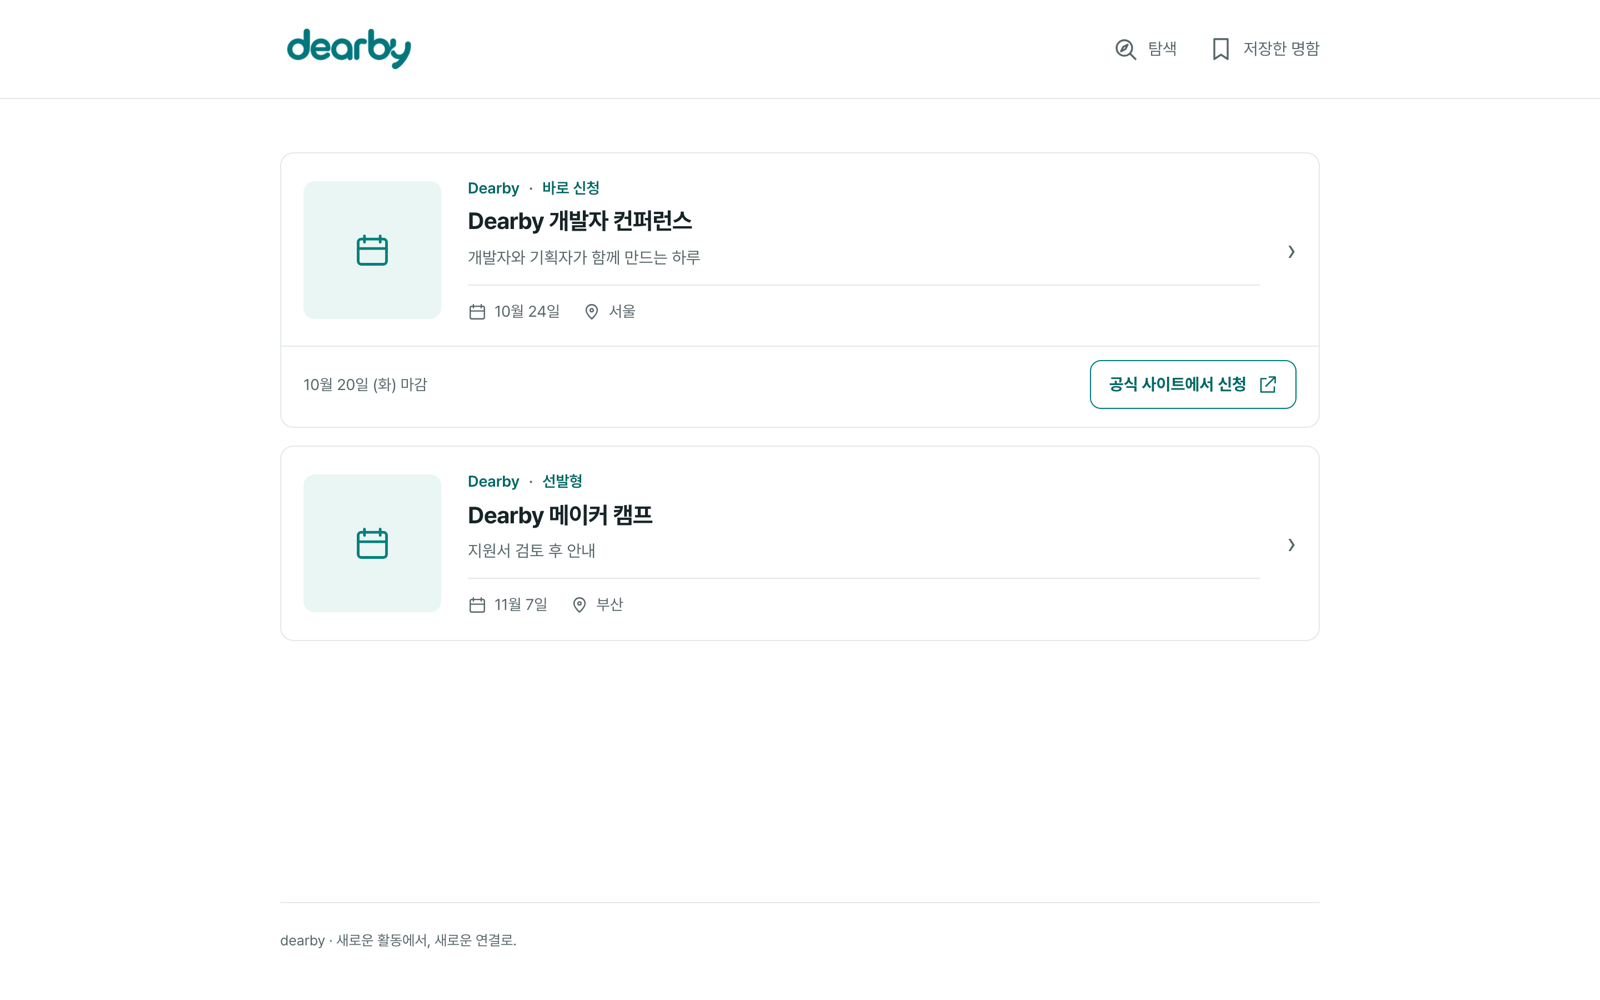
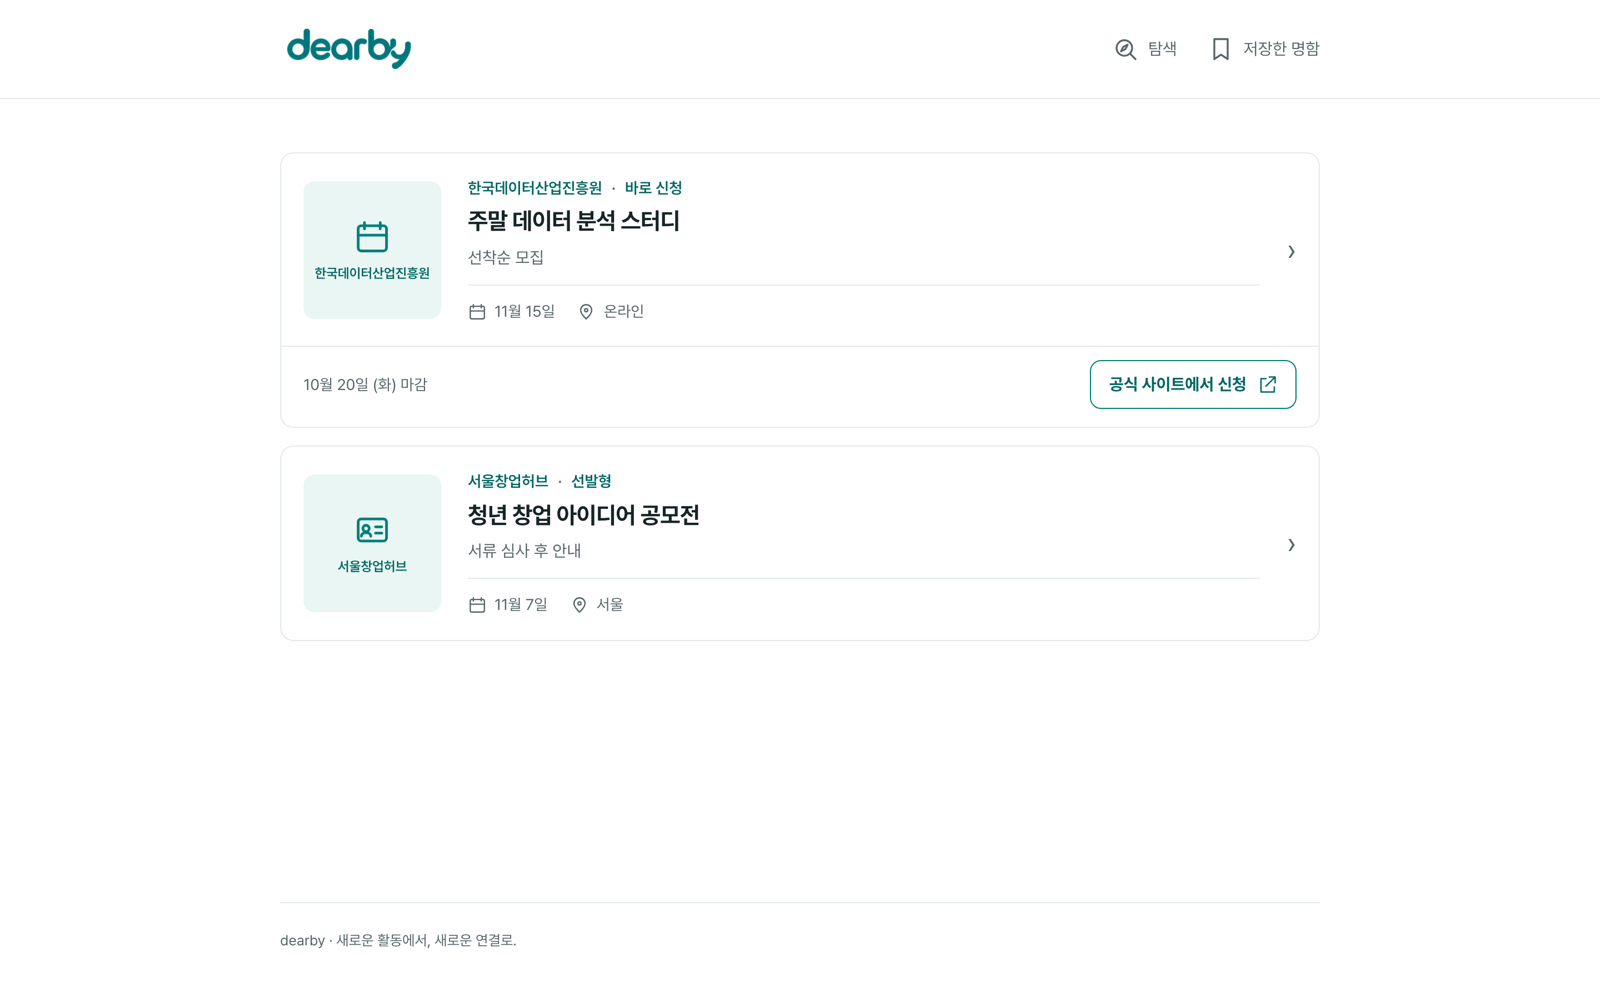
feat(ui): make activity card artwork optional with a type and organization tile
The real catalog has no photos, so the card takes an optional artwork and
otherwise shows a mint tile with a type icon and the organization name. The
artwork and tile are hidden from assistive tech because the card text carries
the same information.

diff --git a/apps/ios/Sources/widgets/catalog/ui/ActivityCard.swift b/apps/ios/Sources/widgets/catalog/ui/ActivityCard.swift
@@ -2,9 +2,13 @@ import SwiftUI
 
 /// 발견 목록의 활동 카드. 본문을 누르면 `open`(상세 이동)을 부른다.
 /// `applyURL`을 주면 카드 아래에 마감일 한 줄과 공식 신청 바로가기를 붙인다. 보일지 여부는 화면이 카탈로그 값으로 정한다.
+/// 사진(`artwork`)이 없으면 유형 아이콘과 조직 이름을 담은 타일을 보인다. 사진·타일은 카드 글자와 같은 정보라 접근성에서 숨긴다.
 struct ActivityCard: View {
     let activityID: String
     let title: String
+    let organization: String
+    var isSelection = false
+    var artwork: Image?
     let summary: String
     let status: String
     let dateAndPlace: String
@@ -15,8 +19,8 @@ struct ActivityCard: View {
         VStack(spacing: 0) {
             Button(action: open) {
                 HStack(alignment: .top, spacing: 12) {
-                    ActivityArtwork(activityID: activityID).frame(width: 104, height: 112).clipped()
-                        .clipShape(RoundedRectangle(cornerRadius: 9))
+                    thumbnail.frame(width: 104, height: 112).clipped()
+                        .clipShape(RoundedRectangle(cornerRadius: 9)).accessibilityHidden(true)
                     VStack(alignment: .leading, spacing: 7) {
                         Text(title).font(.dearby(.headline)).foregroundStyle(DearbyStyle.ink)
                         Text(summary).font(.dearby(.caption)).lineLimit(2)
@@ -43,6 +47,18 @@ struct ActivityCard: View {
         .background(.white, in: RoundedRectangle(cornerRadius: 12))
         .overlay(RoundedRectangle(cornerRadius: 12).stroke(DearbyStyle.line))
     }
+    @ViewBuilder private var thumbnail: some View {
+        if let artwork {
+            artwork.resizable().scaledToFill()
+        } else {
+            VStack(spacing: 8) {
+                Image(systemName: isSelection ? "person.crop.rectangle.stack" : "calendar")
+                    .font(.dearby(.title2)).foregroundStyle(DearbyStyle.teal)
+                Text(organization).font(.dearby(.caption2).weight(.semibold)).foregroundStyle(DearbyStyle.teal)
+                    .multilineTextAlignment(.center).lineLimit(2).minimumScaleFactor(0.8).padding(.horizontal, 8)
+            }.frame(maxWidth: .infinity, maxHeight: .infinity).background(DearbyStyle.mint)
+        }
+    }
     private var deadline: String {
         guard let recruitmentEnd else { return "마감일 미확인" }
         let formatter = DateFormatter()
@@ -58,11 +74,15 @@ struct ActivityCard: View {
 struct ActivityCardSample: View {
     var body: some View {
         VStack(spacing: 12) {
-            ActivityCard(activityID: "conference", title: "Dearby 개발자 컨퍼런스", summary: "개발자와 기획자가 함께 만드는 하루",
+            ActivityCard(activityID: "conference", title: "Dearby 개발자 컨퍼런스", organization: "Dearby", artwork: Image("ConferencePhoto"),
+                         summary: "개발자와 기획자가 함께 만드는 하루",
                          status: "모집 중 · 바로 신청", dateAndPlace: "10월 24일 · 서울", applyURL: URL(string: "https://example.invalid/apply"),
                          recruitmentEnd: ISO8601DateFormatter().date(from: "2026-10-20T14:59:00Z")) {}
-            ActivityCard(activityID: "camp", title: "Dearby 메이커 캠프", summary: "선발형 · 지원서 검토 후 안내",
-                         status: "모집 중 · 선발형", dateAndPlace: "11월 7일 · 부산") {}
+            ActivityCard(activityID: "real-1", title: "청년 창업 아이디어 공모전", organization: "서울창업허브", isSelection: true,
+                         summary: "선발형 · 서류 심사 후 안내", status: "모집 중 · 선발형", dateAndPlace: "11월 7일 · 서울") {}
+            ActivityCard(activityID: "real-2", title: "주말 데이터 분석 스터디", organization: "한국데이터산업진흥원",
+                         summary: "바로 신청 · 선착순", status: "모집 중 · 바로 신청", dateAndPlace: "11월 15일 · 온라인",
+                         applyURL: URL(string: "https://example.invalid/apply")) {}
         }.padding(20).background(.white)
     }
 }

diff --git a/apps/android/app/src/main/java/com/dearby/nativeapp/widgets/activity/activityCard/ActivityCard.kt b/apps/android/app/src/main/java/com/dearby/nativeapp/widgets/activity/activityCard/ActivityCard.kt
@@ -2,11 +2,13 @@ package com.dearby.nativeapp.widgets.activity.activityCard
 
 import androidx.compose.foundation.BorderStroke
 import androidx.compose.foundation.Image
+import androidx.compose.foundation.background
 import androidx.compose.foundation.clickable
 import androidx.compose.foundation.layout.*
 import androidx.compose.foundation.shape.RoundedCornerShape
 import androidx.compose.material.icons.Icons
 import androidx.compose.material.icons.automirrored.outlined.OpenInNew
+import androidx.compose.material.icons.outlined.Badge
 import androidx.compose.material.icons.outlined.CalendarToday
 import androidx.compose.material.icons.outlined.LocationOn
 import androidx.compose.material3.*
@@ -19,6 +21,7 @@ import androidx.compose.ui.graphics.painter.Painter
 import androidx.compose.ui.layout.ContentScale
 import androidx.compose.ui.semantics.*
 import androidx.compose.ui.text.font.FontWeight
+import androidx.compose.ui.text.style.TextAlign
 import androidx.compose.ui.text.style.TextOverflow
 import androidx.compose.ui.unit.dp
 import com.dearby.nativeapp.shared.ui.*
@@ -33,15 +36,22 @@ private val deadlineFormat = DateTimeFormatter.ofPattern("M월 d일 (E)", Locale
  * 발견 목록의 활동 카드. 본문을 누르면 [open](상세 이동)을 부른다.
  * [applyUrl]을 주면 카드 아래에 마감일 한 줄과 공식 신청 바로가기를 붙이고, 누르면 [onApply]로 화면이 외부 브라우저를 연다.
  * 보일지 여부는 화면이 카탈로그 값으로 정한다.
+ * 사진([artwork])이 없으면 유형 아이콘과 조직 이름을 담은 타일을 보인다. 사진·타일은 카드 글자와 같은 정보라 접근성에서 숨긴다.
  */
 @Composable fun ActivityCard(
-    title: String, summary: String, status: String, dateAndPlace: String, artwork: Painter, open: () -> Unit,
-    modifier: Modifier = Modifier, applyUrl: String? = null, recruitmentEnd: Instant? = null, onApply: (String) -> Unit = {},
+    title: String, organization: String, summary: String, status: String, dateAndPlace: String, open: () -> Unit,
+    modifier: Modifier = Modifier, artwork: Painter? = null, isSelection: Boolean = false,
+    applyUrl: String? = null, recruitmentEnd: Instant? = null, onApply: (String) -> Unit = {},
 ) {
     Surface(modifier.fillMaxWidth(), color = Color.White, shape = RoundedCornerShape(12.dp), border = BorderStroke(1.dp, Line)) {
         Column {
             Row(Modifier.fillMaxWidth().clickable(onClickLabel = "상세 보기", onClick = open).padding(7.dp), horizontalArrangement = Arrangement.spacedBy(12.dp)) {
-                Image(artwork, "활동 소개용 예시 사진", Modifier.size(112.dp).clip(RoundedCornerShape(9.dp)), contentScale = ContentScale.Crop)
+                val thumb = Modifier.size(112.dp).clip(RoundedCornerShape(9.dp))
+                if (artwork != null) Image(artwork, null, thumb, contentScale = ContentScale.Crop)
+                else Column(thumb.background(Mint).padding(8.dp), horizontalAlignment = Alignment.CenterHorizontally, verticalArrangement = Arrangement.spacedBy(8.dp, Alignment.CenterVertically)) {
+                    Icon(if (isSelection) Icons.Outlined.Badge else Icons.Outlined.CalendarToday, null, Modifier.size(28.dp), tint = Teal)
+                    Text(organization, color = Teal, fontWeight = FontWeight.SemiBold, textAlign = TextAlign.Center, maxLines = 2, overflow = TextOverflow.Ellipsis, style = MaterialTheme.typography.labelSmall)
+                }
                 Column(Modifier.weight(1f).padding(top = 5.dp), verticalArrangement = Arrangement.spacedBy(5.dp)) {
                     Text(title, style = MaterialTheme.typography.titleMedium, maxLines = 2, overflow = TextOverflow.Ellipsis)
                     Text(summary, color = Quiet, maxLines = 2, overflow = TextOverflow.Ellipsis, style = MaterialTheme.typography.bodySmall)

diff --git a/apps/android/app/src/debug/java/com/dearby/nativeapp/widgets/activity/activityCard/ActivityCardPreview.kt b/apps/android/app/src/debug/java/com/dearby/nativeapp/widgets/activity/activityCard/ActivityCardPreview.kt
@@ -14,9 +14,10 @@ import java.time.Instant
 
 /** 미리보기와 계측 캡처가 함께 쓰는 예시. 신청 주소는 실제가 아닌 example.invalid 값이다. */
 @Composable fun ActivityCardSample(onApply: (String) -> Unit = {}) = Column(Modifier.background(Color.White).padding(20.dp), verticalArrangement = Arrangement.spacedBy(12.dp)) {
-    ActivityCard("Dearby 개발자 컨퍼런스", "개발자와 기획자가 함께 만드는 하루", "모집 중 · 바로 신청", "10월 24일 · 서울", painterResource(R.drawable.prototype_conference), {},
-        applyUrl = "https://example.invalid/apply", recruitmentEnd = Instant.parse("2026-10-20T14:59:00Z"), onApply = onApply)
-    ActivityCard("Dearby 메이커 캠프", "선발형 · 지원서 검토 후 안내", "모집 중 · 선발형", "11월 7일 · 부산", painterResource(R.drawable.prototype_camp), {})
+    ActivityCard("Dearby 개발자 컨퍼런스", "Dearby", "개발자와 기획자가 함께 만드는 하루", "모집 중 · 바로 신청", "10월 24일 · 서울", {},
+        artwork = painterResource(R.drawable.prototype_conference), applyUrl = "https://example.invalid/apply", recruitmentEnd = Instant.parse("2026-10-20T14:59:00Z"), onApply = onApply)
+    ActivityCard("청년 창업 아이디어 공모전", "서울창업허브", "선발형 · 서류 심사 후 안내", "모집 중 · 선발형", "11월 7일 · 서울", {}, isSelection = true)
+    ActivityCard("주말 데이터 분석 스터디", "한국데이터산업진흥원", "바로 신청 · 선착순", "모집 중 · 바로 신청", "11월 15일 · 온라인", {}, applyUrl = "https://example.invalid/apply", onApply = onApply)
 }
 
 @Preview(name = "빠른 신청", widthDp = 390) @Composable private fun ActivityCardPreview() = DearbyTheme { ActivityCardSample() }

diff --git a/apps/web/src/widgets/activity/activity-card.tsx b/apps/web/src/widgets/activity/activity-card.tsx
@@ -5,6 +5,7 @@ import styles from "./activity-card.module.css";
 /**
  * 활동 목록의 카드 한 장. 화면이 조직 이름·참여 방식 문구를 계산해 넘기고, 누르면 활동 상세로 간다.
  * `applyUrl`을 주면 카드 아래에 공식 신청 바로가기와 마감일 한 줄을 붙인다. 보일지 여부는 화면이 정한다.
+ * 사진이 없는 카탈로그라 왼쪽 타일은 유형 아이콘과 조직 이름을 보이며, 카드 글자와 같은 정보라 접근성에서 숨긴다.
  */
 export function ActivityCard({
   id,
@@ -16,6 +17,7 @@ export function ActivityCard({
   location,
   applyUrl,
   recruitmentEndAt,
+  isSelection = false,
 }: {
   id: string;
   title: string;
@@ -26,11 +28,15 @@ export function ActivityCard({
   location: string | null;
   applyUrl?: string;
   recruitmentEndAt?: string | null;
+  isSelection?: boolean;
 }) {
   const card = (
     <Link className="activity-card" href={`/activities/${id}`}>
       <span className="activity-art" aria-hidden="true">
-        <Icon name="calendar" size={34} />
+        <span className={styles.tile}>
+          <Icon name={isSelection ? "card" : "calendar"} size={34} />
+          <span className={styles.organization}>{organizationName}</span>
+        </span>
       </span>
       <div className="activity-copy">
         <p className="eyebrow">

diff --git a/apps/android/app/src/androidTest/java/com/dearby/nativeapp/SharedControlsTest.kt b/apps/android/app/src/androidTest/java/com/dearby/nativeapp/SharedControlsTest.kt
@@ -130,8 +130,10 @@ class SharedControlsTest {
     @Test fun quickApplyAppearsOnlyWithUrlAndPassesIt() {
         var applied: String? = null
         compose.setContent { DearbyTheme { Box(Modifier.testTag("gallery")) { ActivityCardSample { applied = it } } } }
-        compose.onAllNodesWithText("공식 사이트에서 신청", substring = true, useUnmergedTree = true).assertCountEquals(1)
+        compose.onAllNodesWithText("공식 사이트에서 신청", substring = true, useUnmergedTree = true).assertCountEquals(2)
         compose.onNodeWithText("10월 20일 (화) 마감").assertExists()
+        compose.onNodeWithText("마감일 미확인").assertExists()
+        compose.onNodeWithText("서울창업허브").assertExists()
         compose.onNodeWithContentDescription("Dearby 개발자 컨퍼런스 공식 사이트에서 신청, 외부 브라우저로 열려요").performClick()
         assert(applied == "https://example.invalid/apply")
         capture("android-activity-quick-apply")

diff --git a/apps/web/src/widgets/activity/activity-card.module.css b/apps/web/src/widgets/activity/activity-card.module.css
@@ -27,3 +27,29 @@
   padding: 8px 16px;
   font-size: 15px;
 }
+.tile {
+  display: grid;
+  justify-items: center;
+  gap: 8px;
+  padding: 8px;
+  text-align: center;
+}
+.organization {
+  display: -webkit-box;
+  overflow: hidden;
+  -webkit-box-orient: vertical;
+  -webkit-line-clamp: 2;
+  font-size: 12px;
+  font-weight: 600;
+  line-height: 1.35;
+  word-break: keep-all;
+}
+.organization {
+  color: var(--teal-dark);
+}
+/* 좁은 화면에서는 타일이 작아 이름이 단어 중간에서 끊기므로, 이미 제목 위에 보이는 조직 이름을 타일에서는 숨긴다. */
+@media (max-width: 640px) {
+  .organization {
+    display: none;
+  }
+}

diff --git a/docs/context/feature-applied-activities-and-cards.md b/docs/context/feature-applied-activities-and-cards.md
@@ -92,7 +92,7 @@
 | QR 공유 카드(widgets) | `QRShareCard(name:job:url: URL?, errorMessage:retry:activities:selectedActivityIDs:)` — 공유 버튼은 `ShareLink` | `QrShareCard(name, job, url: String?, onShare, modifier, errorMessage, onRetry, activities, selectedActivityIds, onToggleActivity)` — `onShare`에서 화면이 ACTION_SEND chooser를 연다 |
 | 스캔 틀(widgets) | `QRScanOverlay(scanFromPhotos:preview:)` | `QrScanOverlay(scanFromPhotos, modifier, preview)` |
 | 명함 제작(widgets) | `CardComposer(name:job:introduction:contacts:histories:requiresLogin:publishing:errorMessage:publish:)` + `CardComposerContact`·`CardComposerHistory` | `CardComposer(name, job, introduction, contacts, histories, onNameChange, onJobChange, onIntroductionChange, onContactChange, onHistoryChange, onPublish, modifier, requiresLogin, publishing, errorMessage)` |
-| 활동 카드·빠른 신청(widgets) | `ActivityCard(activityID:title:summary:status:dateAndPlace:applyURL:recruitmentEnd:open:)` (`widgets/catalog`) | `ActivityCard(title, summary, status, dateAndPlace, artwork, open, modifier, applyUrl, recruitmentEnd, onApply)` (`widgets/activity/activityCard`) |
+| 활동 카드·빠른 신청(widgets) | `ActivityCard(activityID:title:organization:isSelection:artwork: Image?:summary:status:dateAndPlace:applyURL:recruitmentEnd:open:)` (`widgets/catalog`) | `ActivityCard(title, organization, summary, status, dateAndPlace, open, modifier, artwork: Painter? = null, isSelection, applyUrl, recruitmentEnd, onApply)` (`widgets/activity/activityCard`) |
 
 - `DearbyChoice`는 `id`·`title`만 가진다. 활동 모델을 `shared`에 들이지 않도록 화면이 활동을 변환해 넘긴다. 칩은 줄바꿈 배치이며 선택은 색과 체크 표시로 함께 구분한다. 읽기 전용 표시는 기존 `DearbyBadge`/`ExampleBadge`를 쓴다.
 - 인라인 입력 칸은 읽기·편집에서 같은 여백을 써 위치가 바뀌지 않는다. 편집 중에만 옅은 배경과 밑줄을 보인다. `label`은 입력 칸의 접근성 이름이다. 편집 상태 전환 알림, `완료`/`취소`, 이름이 비었을 때의 이유 문구는 화면(플로우 담당)이 맡는다.
@@ -111,3 +111,4 @@
 - QR 화면은 `DearbySegments(['내 코드', '스캔'])` 아래에 QR 공유 카드나 스캔 틀을 둔다. 카드는 호출 측이 넘긴 공유 URL(`https://<웹 origin>/s/<shareId>`) 문자열을 그대로 QR과 글자로 보이며 도메인을 고정하지 않는다. `url`이 없으면 만드는 중, `errorMessage`가 있으면 다시 시도를 보인다. 공유 버튼 하나로 OS 공유 시트를 바로 열고(QR 진입 1 → 공유 2탭), 함께 보낼 활동은 접힌 선택 칩이다. 카메라 미리보기·사진 선택·공유 만들기·로그인은 화면이 맡는다.
 - 명함 제작은 한 화면에서 이름·직함·소개를 입력하고 연락처·활동 이력마다 공개 스위치를 고른 뒤 하단의 `명함 발행` 하나로 끝난다. 로그인이 필요하면 버튼이 `로그인하고 명함 발행`으로 바뀌고 '발행할 때만 로그인' 안내를 보인다. 이름이 비면 버튼을 끄고 이유를 보인다. 로그인·발행 요청·오류 문구 결정은 화면이 맡는다.
 - 빠른 신청(조사 보고서 A안, 2026-10-06 승인): 활동 카드는 `applyUrl`과 마감일(`recruitmentEndAt`)을 선택 인자로만 받는다. 값을 주면 카드 아래에 `M월 d일 (요일) 마감`(서울 시간, 없으면 `마감일 미확인`)과 외부 링크 아이콘이 있는 44 이상 높이의 `공식 사이트에서 신청`을 붙인다. 보이는 조건(`participationType == registration`, 모집 중, `applicationUrl` 있음)은 호출 측이 카탈로그 값으로 판정한다. 카드 본문을 누르면 지금처럼 상세로 간다. 웹은 `widgets/activity/activity-card.tsx`의 같은 인자(`applyUrl`, `recruitmentEndAt`)를 쓴다.
+- 활동 사진은 선택이다(실제 카탈로그에는 사진이 없다). 없으면 민트 타일에 유형 아이콘(바로 신청 달력, 선발형 명함)과 조직 이름(최대 2줄)을 보인다. 사진·타일은 카드 글자와 같은 정보라 접근성에서 숨긴다. 웹은 제목 위에 조직 이름이 이미 있어 640px 이하에서는 타일의 조직 이름을 숨긴다. 웹 `isSelection` 인자는 화면이 넘긴다.
